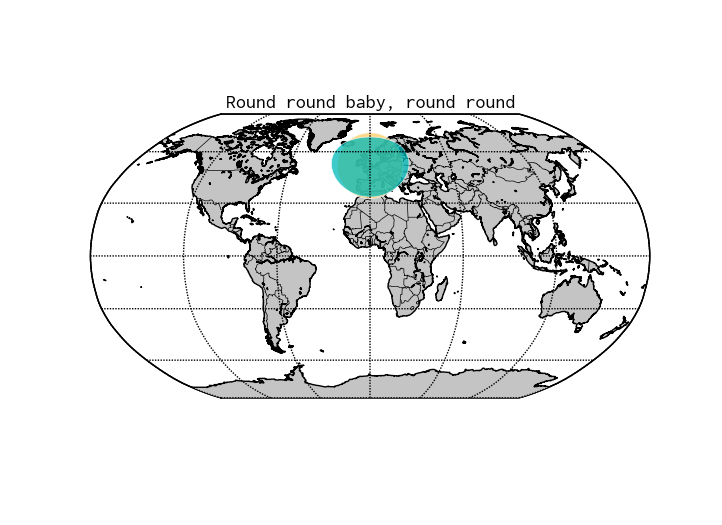
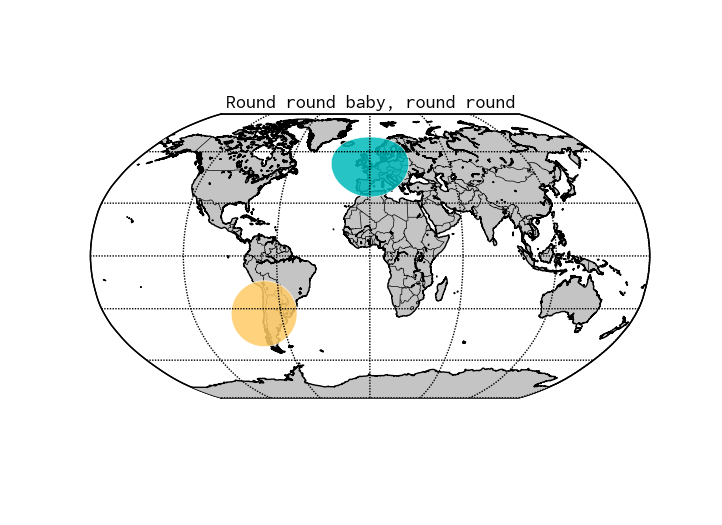
Slightly better graphic

diff --git a/README.md b/README.md
@@ -27,7 +27,8 @@ centerlat = 51.5219198
 coords = [circle(m, centerlon, centerlat, radius) for radius in radii]
 
 # let's initialise a point and construct a polygon
-p = Point(m(centerlon, centerlat))
+# http://mitpress.mit.edu/books/road-not-road-and-open-city-ritoque-chile
+p = Point(m(-71.530303, -32.824977))
 buffered = p.buffer(2000000)
 # let's do the same with our calculated coordinates
 pol = Polygon(coords[0])
